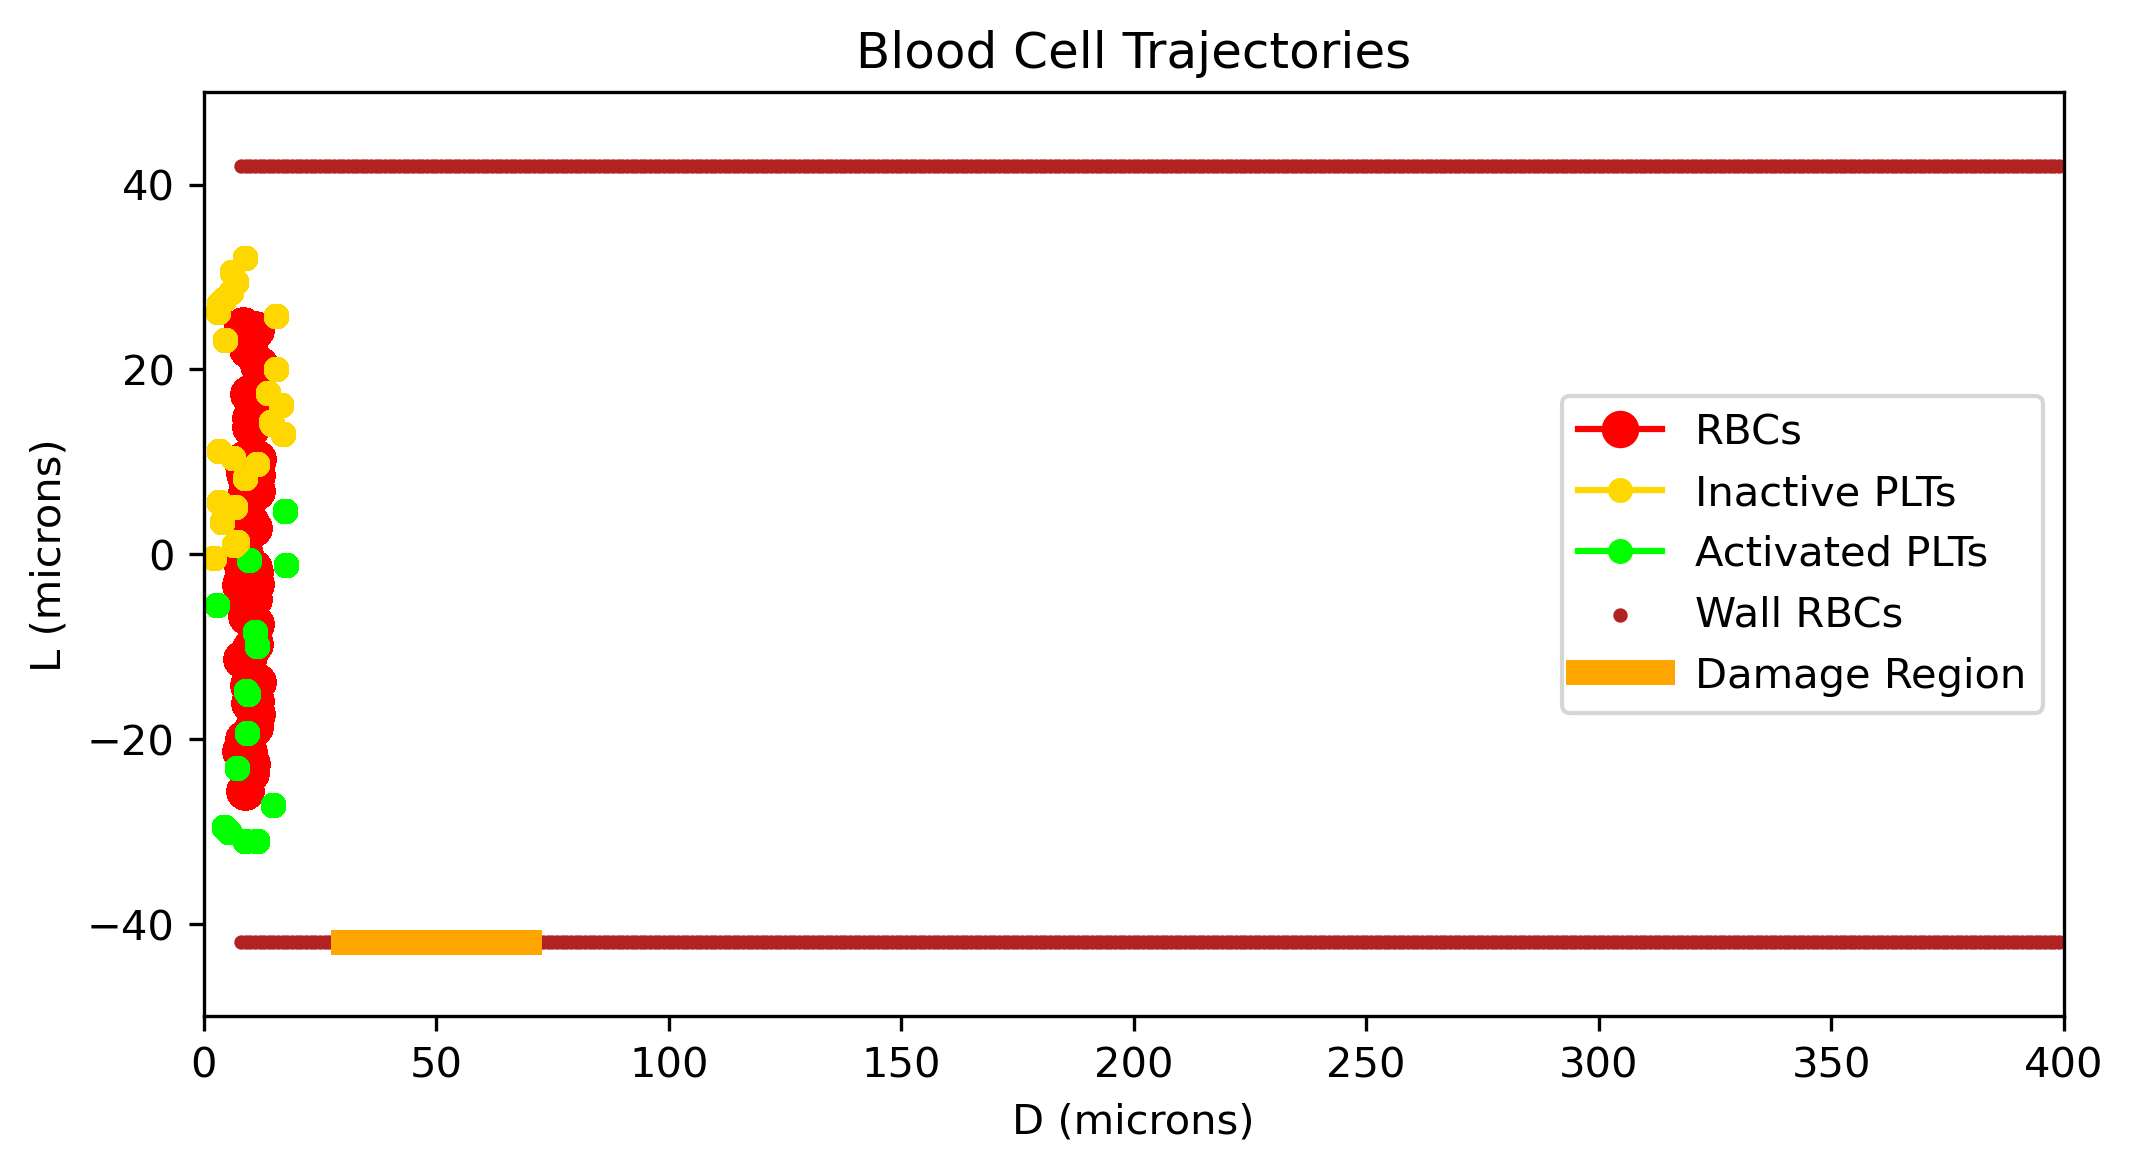
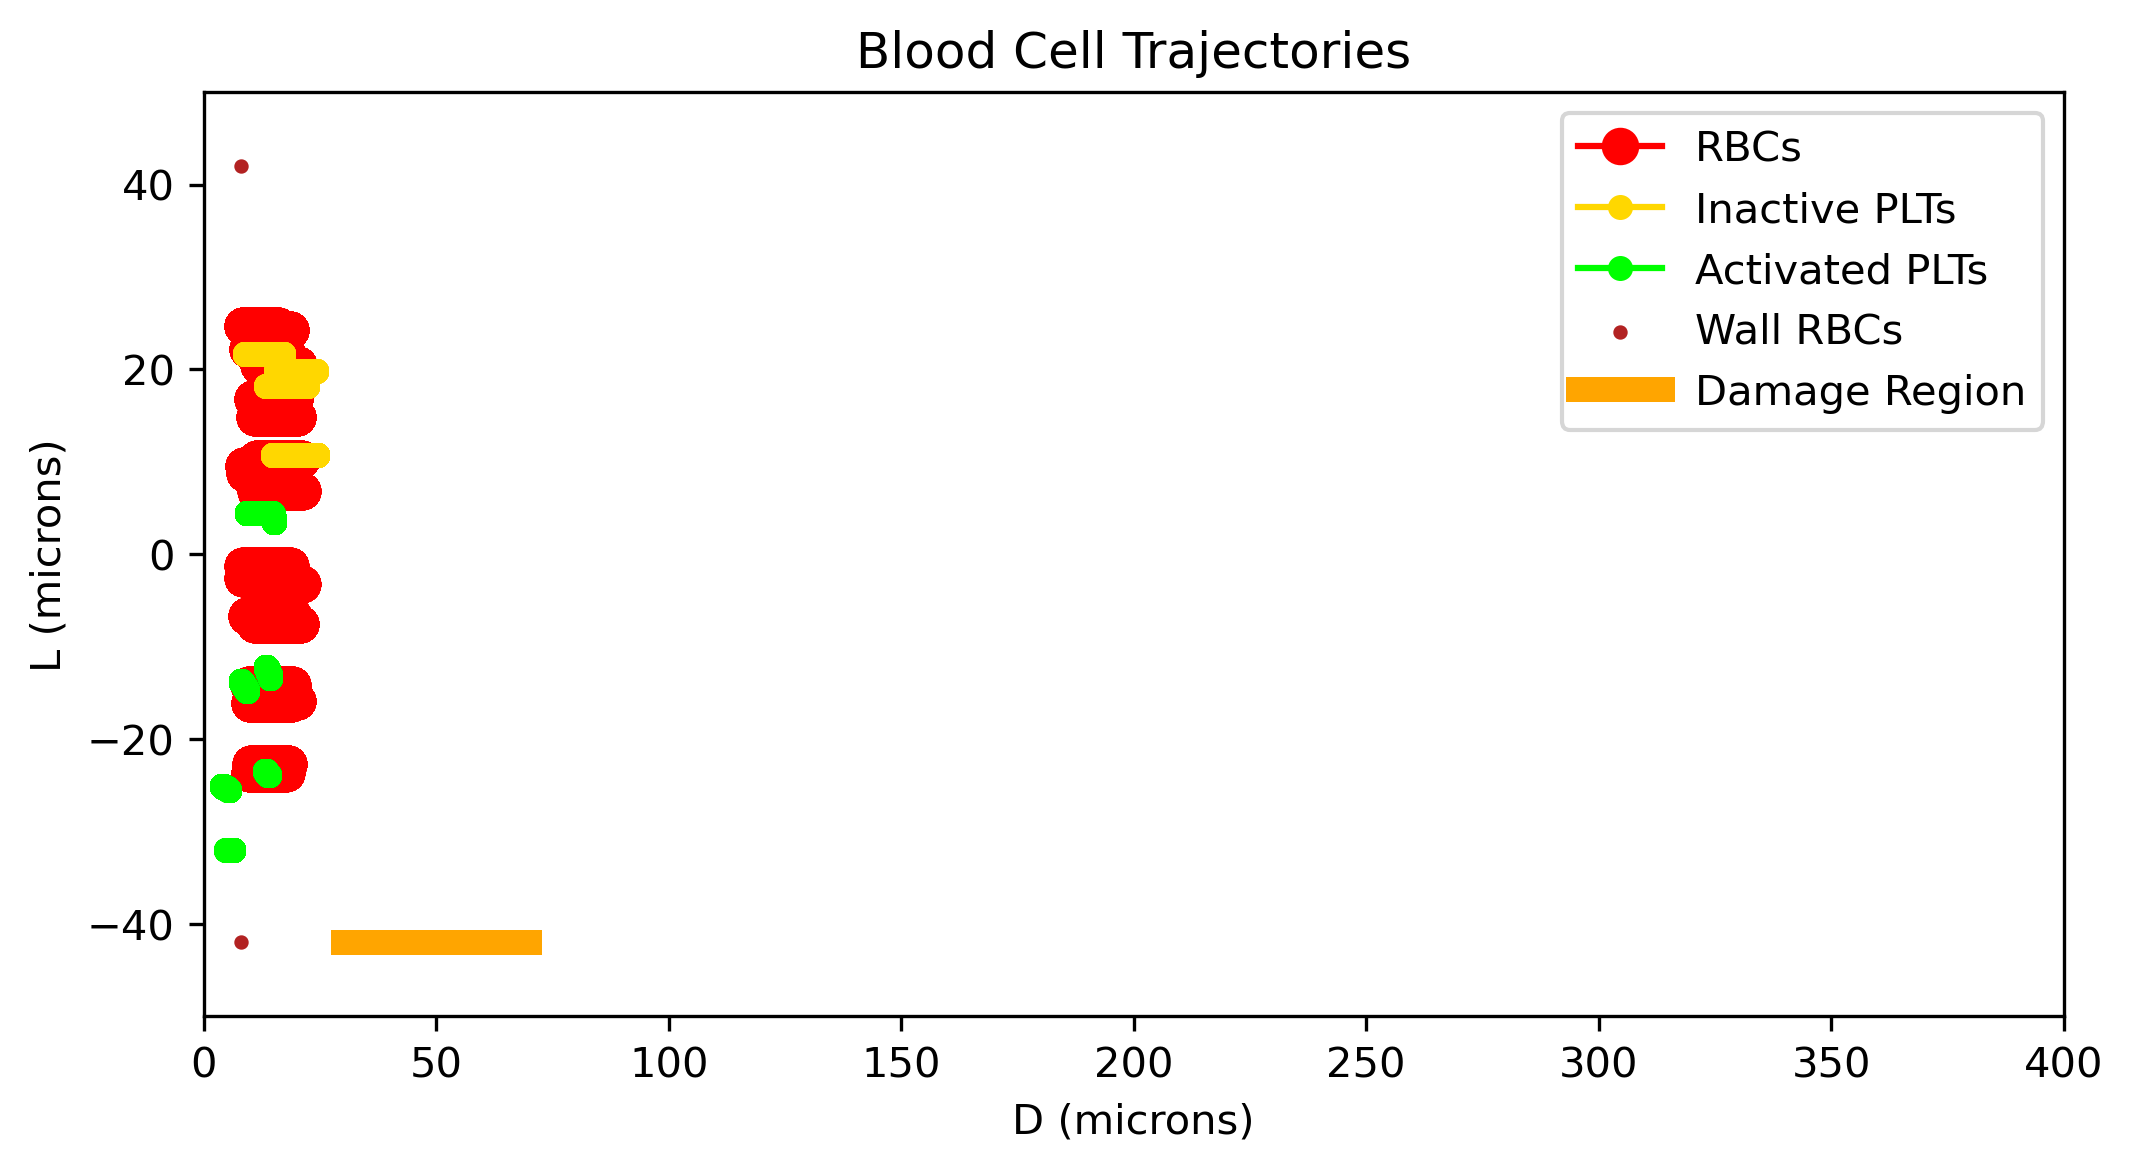
fixing wall vessel

diff --git a/BloodClotting/run_model.py b/BloodClotting/run_model.py
@@ -25,11 +25,11 @@ rbc_mass = 1.1 * NANOGRAM
 plt_radius = 1.5 * MICRON
 plt_mass = 0.0124 * NANOGRAM
 
-n_rbcs = 40  #number of RBCs to simulate
-n_plts = 20  #number of platelets to simulate
+n_rbcs = 20  #number of RBCs to simulate
+n_plts = 10  #number of platelets to simulate
 rng_seed = 42  #seed for reproducibility
 k_contact = 100 * NANOGRAM  # N/m in SI after converting from ng/s^2
-k_wall = 1e6 * NANOGRAM  # N/m in SI after converting from ng/s^2
+k_wall = 1e7 * NANOGRAM  # N/m in SI after converting from ng/s^2
 
 #Platelet activation and adhesion parameters
 threshold = 40 * MICRON
@@ -38,8 +38,8 @@ adhesion_cutoff = 1e2 * MICRON
 k_adhesion = 2e5 * NANOGRAM  # N/m in SI after converting from ng/s^2
 
 # Time stepping for the simulation
-output_dt = 1e-8  #time between saved frames in seconds
-n_steps = 2000  #number of saved frames
+output_dt = 1e-6  #time between saved frames in seconds
+n_steps = 10000  #number of saved frames
 dt_max = output_dt
 
 #Vessel and flow parameters

diff --git a/BloodClotting/assets/model_functions.py b/BloodClotting/assets/model_functions.py
@@ -145,7 +145,7 @@ def compute_stable_dt(
     wall_spring,
     adhesion_spring,
     dt_max,
-    safety=0.1,
+    safety=0.05,
     displacement_fraction=0.1,
 ):
     min_dt = dt_max
